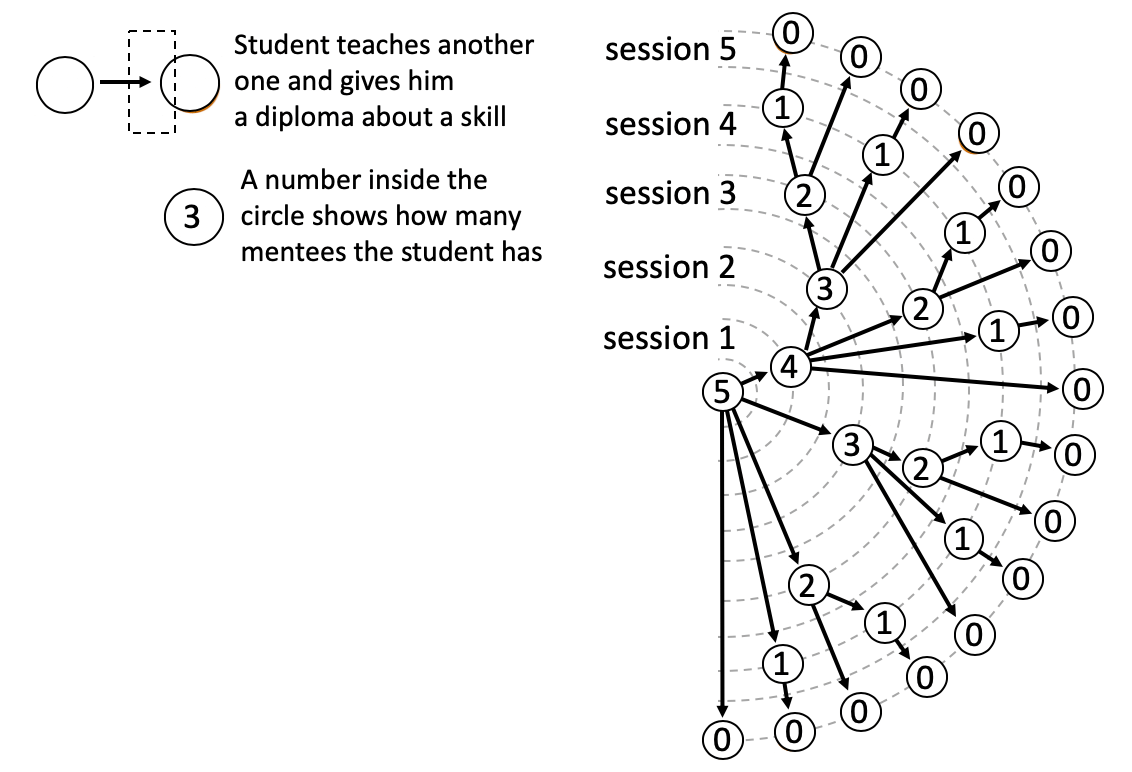
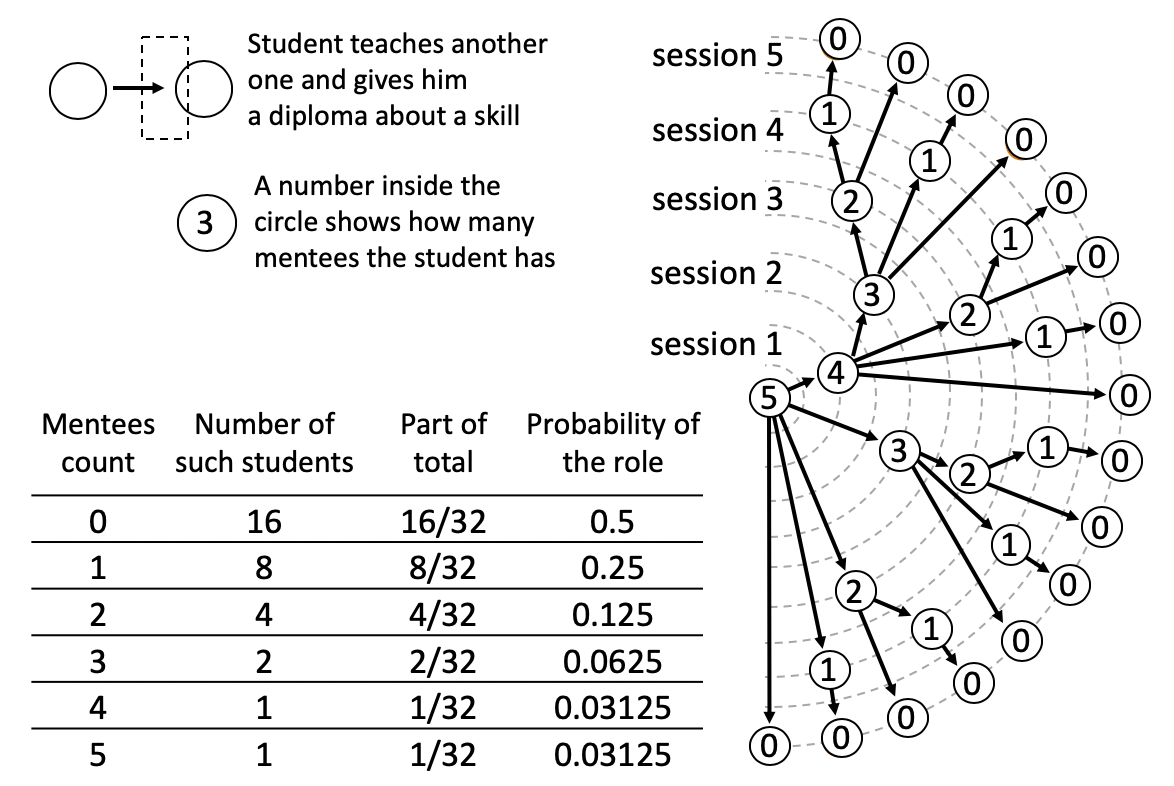
More info

diff --git a/slonigiraf/ENG.md b/slonigiraf/ENG.md
@@ -36,6 +36,14 @@ $2^{sessions} = diplomas$
 
 For example: $2^{5} = 32$: after 5 sessions we expect to have 32 diplomas, meaning that 32 students acquired the skill. What if the lesson takes part not in school but in university and we need to teach 512 students that came to our course? How many sessions are need to spread a skill? Using formula **(1)** we can write: $2^{x} = 512$. By simple internet search or by using logarithm we can find that $x=9$. Thus we need only 9 sessions to teach 512 peoples a skill.
 
+### Probability to become a tutor
+
+<img alt="Image" src="https://github.com/slonigiraf/slon-whitepaper/blob/main/img/metnees_count.png?raw=true" width="500">
+
+*Figure 2. Mentees count*
+
+As shown on a fig. 2. a half of students gains a skill in a last session. That means they will pay for tutoring and geting a diploma but will not earn money by tutoring such skill as there will be no student left that need a skill. If the class consists of 32 students there will be 16 such students (depicted with a number 0 on a fig. 2). 1/4 th of students gain a skill in a preterminal session (are marked with a numbe 1). These students have 1 tutor and 1 mentee each, which results in a 0 profit result as they compensate money paid to their tutors by money acquired by being a tutor. 1/8 th of students have 2 mentees and 1 mentor
+
 ### Expert selection
 
 A fact that a student got the diploma doesn't mean he has mastered the skill. It just means that his tutor believes in it. Hoewever the tutor can be wrong. For example, the tutor himself doesn't posess such skill, or he didn't verified the skill proficiency of tutee by the adequete number of tasks, or the tutee can simply forget the skill. To maintain the good quality of education our system uses experts who verify diplomas and have a right to reward students with "A" grade or with any other type of reward. At the beginning of the lesson there is only one expert - the master teacher who runs and controls all the lesson. He is not able to verify all diplomas as it requires too much times. But he can delegate such position to few experts from students that got the diploma on the studied skill. The teacher verify that students that want to be experts posses the skill. If some of them fail the verification the teacher gets reimbursement from a tutor who issued the diploma.
@@ -139,9 +147,7 @@ As all issued diplomas go through the verification it's profitable to a mentor t
 
 If student constantly plays a role of a tutee and doesn't become a tutor he will run out of money. Students that gain a diploma in the last session (see fig. 2) have no option to teach the acquired skill. So if the student will constantly get diplomas in the last session he will run out of money even if he want to be a tutor. This situation is almost random and the student can't control it well. Let's calculate the probability to acquire the skill in the last session. From the Fig. 1. it seems that such probability is around of 0.5, as in last session 4 students participate as mentees from 8 students total. To be accurate it's **less or equal to 0.5** in a group of any size, because in last session each mentee gets a mentor, but not each mentor is guaranteed to get a mentee. Thus if student starting capital $A = 0$, then the probability that he can't pay for the lesson is less or equal to 0.5: $P{_b} ≤ 0.5$. When a mentee has a starting capital larger that 0, we need to know a diploma price to calculate the exact probability to run out of the capital.
 
-<img alt="Image" src="https://github.com/slonigiraf/slon-whitepaper/blob/main/img/metnees_count.png?raw=true" width="500">
 
-*Figure 2. Mentees count*
 
 A mentee pays to his tutor not only to study a skill but also to get a diploma. Diploma is very similar to an insurance police because the tutor promises to pay a reimbursement to an expert if the mentee will forget the skill. As in insurance business bad things can happen by chance more often than expected and the mentor can run out of money due to reimbursements. The probability that a mentee forgets a skill is [0.25](https://pubmed.ncbi.nlm.nih.gov/21574747/).
 
